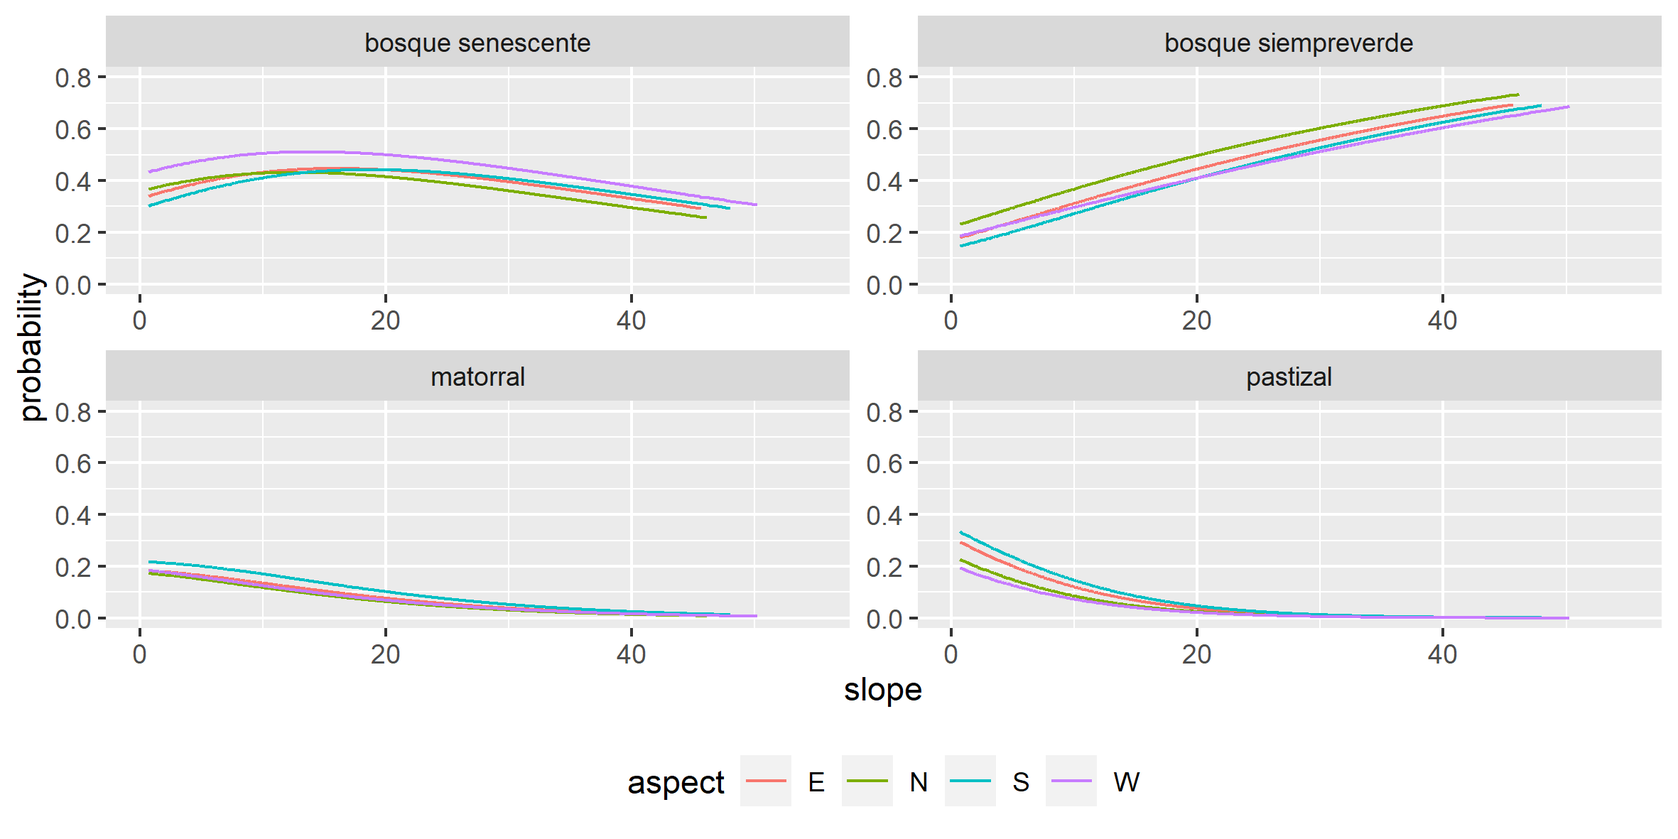
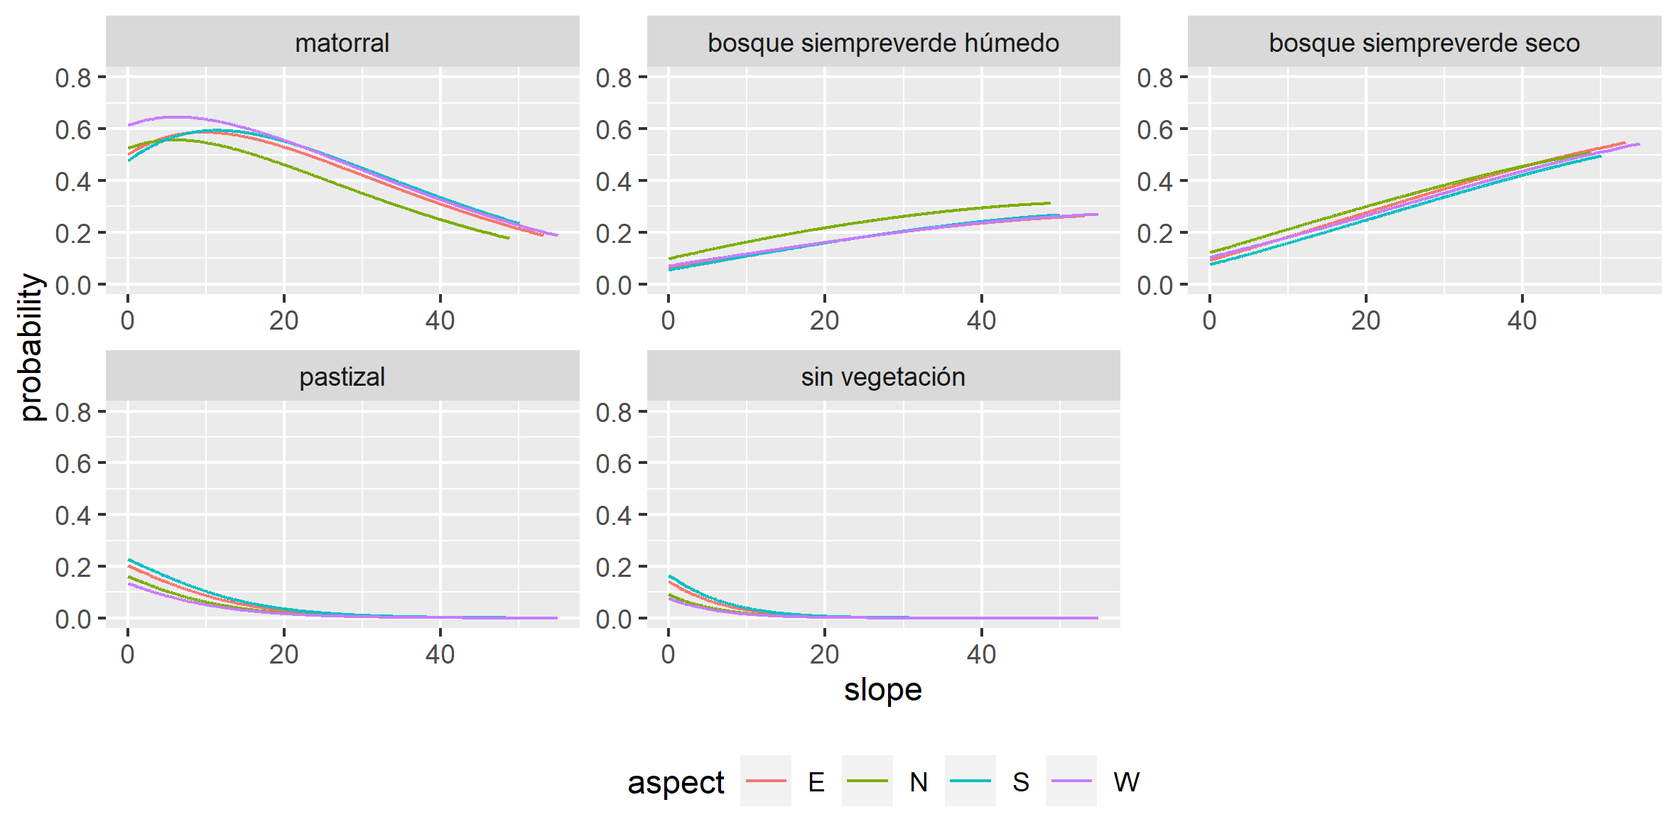
Add files via upload

diff --git a/docs/index.html b/docs/index.html
@@ -196,8 +196,8 @@
         <br>
         <br>
         <img src="view compare1.png" width="100%" alt="Corrección de iluminación por factor C"><br>
-        Figura 1. Imagen sin corrección de iluminación (a). Imagen con iluminación corregida por
-        método de factor C (b).
+        Figura 1. (A) Imagen sin corrección de iluminación; (B) Imagen con iluminación corregida por
+        método de factor C.
         <br>
         <br>
             Datos de elevación:<br>
@@ -213,36 +213,10 @@
     </section>
         <br>
         <br>
-        <header>
-    <h3>
-        4. Procesamiento de imágenes: análisis de componentes principales (ACP)
-    </h3>
-    </header>
-    <section>
-           El siguiente paso consistió en llevar cabo un análisis de componentes principales
-        (ACP) sobre los datos de las bandas corregidas de la escena MSI. Con este proceso se
-        <span id="dots4">...</span><span id="more4">
-        busca reducir la cantidad de información en un menor número de bandas llamadas
-        componentes principales que capturen la mayor cantidad de información en términos
-        de la varianza.
-        <br>
-        <br>
-        Salida:<br>
-        D:\Documents\GIS\IMG_SAT\S2A_MSIL1C_20230313T172111_N0509_R012_T13QGE_20230313T222343\C3_20230313\pca\pca
-        <br>
-        <br>
-        </span>
-                <button onclick="myFunction4()" id="myBtn4">Leer más</button>
-        <br>
-        <br>
-    </section>
-        <br>
-        <br>
-    </section>
 
         <header>
     <h3>
-        5. Procesamiento de imágenes: creación de un índice de vigor vegetal (IVV)
+        4. Procesamiento de imágenes: creación de un índice de vigor vegetal (IVV)
     </h3>
     </header>
     <section>
@@ -266,14 +240,12 @@
         <br>
         <br>
     </section>
-
         <br>
         <br>
-    </section>
 
         <header>
     <h3>
-        6. Clasificación de imágenes: k-means
+        5. Clasificación de imágenes: k-means
     </h3>
     </header>
     <section>
@@ -297,58 +269,7 @@
 
         <br>
         <br>
-        <h4>
-            Clasificación sobre la imagen ACP
-        </h4>
-        Una vez terminadas las iteraciones sobre la imagen ACP se obtuvo una imagen con 7 clases
-        mas otra clase correspondiente a todos aquellos pixeles NO clasificados para un total de 8 clases.
-        Sobre la imagen generada se procede a
-        crear las ROI para cada una de las clases. Una vez hecho esto, se nombran las ROI como
-        "pca roi n" donde n el número de identificación de clase. Se cargaron las ROI sobre
-        la imagen MSI multibanda y se analizó la separabilidad de las ROI. Se hizo la unión
-        de los pares de ROI 1 y 2, 4 y 5, así como 6 y 7 cuya separabilidad fue menor o igual a 0.5
-        (Tabla 4).
-        <br>
-        <br>
-        <i style="color:#555656;">Tabla 4. Separabilidad de las ROI en la clasificación
-        dada por la <b>imagen ACP</b></i>
-        <table border=0
-           style="background-color:lightgrey;width:100%;"
-           class="table1">
 
-                    <thead style="background-color:#66C802;color:white">
-
-                        <tr style="background:green3;"><th class="word"> ROI ID</th> <th class="meaning">ROI ID</th><th class="meaning">Separación</th></tr></thead>
-                        <tr style="text-align:left;color:black;"><td align="center">1</td><td align="center">2</td><td align="center">0.37</td></tr>
-                        <tr style="text-align:left;color:black;"><td align="center">6</td><td align="center">7</td><td align="center">0.37</td></tr>
-                        <tr style="text-align:left;color:black;"><td align="center">4</td><td align="center">5</td><td align="center">0.50</td></tr>
-
-        </table>
-        <br>
-        <br>
-        En la Tabla 5 se muestran los valores medios de reflectancia observados en cada clase y para
-        cada una de las bandas multiespectrales del sensor satelital MSI.
-        <br>
-        <br>
-        <i style="color:#555656;">Tabla 5. Valor medio de clase y desviación estándar para cada una de las bandas del sensor MSI
-        de acuerdo a las clases de la <b>imagen ACP</b>. Debe destacarse el aumento en la
-        diferencia entre los valores medios de las bandas 8 y 4, así como la disminución constante en
-        los valores medios de la banda 11 a través de las clases obtenidas.</i><br>
-        <table border=0
-           style="background-color:lightgrey;width:100%;"
-           class="table1">
-
-                    <thead style="background-color:#66C802;color:white">
-
-                        <tr style="background:green3;"><th class="word"> Clase</th> <th class="meaning" colspan="2">Banda 3<br>media-desv</th><th class="meaning" colspan="2">Banda 4<br>media-desv</th><th class="meaning" colspan="2">Banda 8<br>media-desv</th><th class="meaning" colspan="2">Banda 11<br>media-desv</th></tr></thead>
-                        <tr style="text-align:left;color:black;"><td align="center">Clase 1</td><td align="center">0.2352</td><td align="center">0.0175</td><td align="center">0.2686</td><td align="center">0.0232</td><td align="center">0.3416</td><td align="center">0.0231</td><td align="center">0.4479</td><td align="center">0.0322</td></tr>
-                        <tr style="text-align:left;color:black;"><td align="center">Clase 2</td><td align="center">0.2096</td><td align="center">0.0097</td><td align="center">0.2321</td><td align="center">0.0111</td><td align="center">0.3064</td><td align="center">0.0124</td><td align="center">0.3958</td><td align="center">0.0166</td></tr>
-                        <tr style="text-align:left;color:black;"><td align="center">Clase 3</td><td align="center">0.1916</td><td align="center">0.0083</td><td align="center">0.2065</td><td align="center">0.0103</td><td align="center">0.2810</td><td align="center">0.0144</td><td align="center">0.3484</td><td align="center">0.0186</td></tr>
-                        <tr style="text-align:left;color:black;"><td align="center">Clase 4</td><td align="center">0.1788</td><td align="center">0.0057</td><td align="center">0.1824</td><td align="center">0.0101</td><td align="center">0.2668</td><td align="center">0.0174</td><td align="center">0.2908</td><td align="center">0.0198</td></tr>
-
-
-        </table>
-        <br>
         <br>
         <br>
         <h4>
@@ -408,7 +329,7 @@
         clasificación.
         <br>
         <br>
-        <img src="pca vs ivv.png" width="100%" alt="clasificación k means sobre pca y vvi"><br>
+        <img src="ivv clases.png" width="100%" alt="clasificación k means sobre pca y vvi"><br>
         <i style="color:#555656;">Fig 2. Comparativo de los resultados de los dos procesos de clasificación kmeans.
         Del lado izquierdo se muestra la <b>imagen ACP</b> con las clases obtenidas a partir de los
             <b>componentes principales</b>; del lado derecho se muestra la <b>imagen IVV</b> con el
@@ -432,10 +353,11 @@
                     <thead style="background-color:#66C802;color:white">
 
                         <tr style="background:green3;"><th class="word"> Clase</th> <th class="meaning">Nivel</th><th class="meaning">Descripción</th></tr></thead>
-                        <tr style="text-align:left;color:black;"><td align="center">1</td><td align="center">2</td><td align="center">Pastizal y suelo desnudo</td></tr>
-                        <tr style="text-align:left;color:black;"><td align="center">2</td><td align="center">3</td><td align="center">Matorral disperso</td></tr>
-                        <tr style="text-align:left;color:black;"><td align="center">3</td><td align="center">5</td><td align="center">Bosque denso senescente</td></tr>
-                        <tr style="text-align:left;color:black;"><td align="center">4</td><td align="center">7</td><td align="center">Bosque denso siempre verde</td></tr>
+                        <tr style="text-align:left;color:black;"><td align="center">1</td><td align="center">2</td><td align="center">Sin vegetación</td></tr>
+                        <tr style="text-align:left;color:black;"><td align="center">2</td><td align="center">3</td><td align="center">Pastizal</td></tr>
+                        <tr style="text-align:left;color:black;"><td align="center">3</td><td align="center">5</td><td align="center">Matorral senescente</td></tr>
+                        <tr style="text-align:left;color:black;"><td align="center">4</td><td align="center">7</td><td align="center">Bosque perenifolio seco</td></tr>
+                        <tr style="text-align:left;color:black;"><td align="center">4</td><td align="center">7</td><td align="center">Bosque perenifolio húmedo</td></tr>
 
         </table>
         <br>
@@ -468,94 +390,32 @@
         <br>
         <header>
     <h3>
-        7. Análisis de regresión
+        6. Análisis de regresión
     </h3>
     </header>
     <section>
-        Para realizar el análisis multinomial o categórico se utilizó la información raster
-        de topografía de la zona de estudio (aspecto y pendiente) así como la información categórica
-        de los clases de vegetación obtenidas mediante los dos procesos de clasificación de conglomerados.
-        El análisis de regresión logística multinomial
+        Se aplicaron dos procesos de análisis de regresión: a) regresión logística multinomial y b)
+        regresión lineal múltiple. Se utilizó la
+        información raster topográfica de la zona de estudio (aspecto y pendiente) así como la
+        información categórica de los clases de vegetación obtenidas mediante el proceso de
         <span id="dots7">...</span><span id="more7">
-        trabaja sobre una variable respuesta o dependiente de naturaleza categórica y, para este caso,
-        con dos variabes predictivas: una continua y otra categórica. El análisis busca detectar si
-        es que existe alguna influencia significativa de la topografía (aspecto y pendiente) sobre la
-        distribución de las clases de vegetación.
+        clasificación de conglomerados k-means. Para la regresión logística se analizaron un total de
+        503,014 observaciones, mientras que para la regresión lineal se analizaron un total de 505,085
+        observaciones.
         <br>
         <br>
-        Para poder llevar a cabo este análisis fue necesario hacer una preparación de los datos topográficos
-        de la zona de estudio. La información continua de la orientación o aspecto del terreno se
-        particionó en cuatro categorías: N, S, E y O.
-        <br>
-        <br>
-        <h4>Regresión logística multinomial sobre la clasificación ACP</h4>
-        <br>
-        <br>
-        <i style="color:#555656;">Tabla 9. Resultados del modelo de regresión logística.
-            <br>
-            <br>
-        Coeficientes.</i><br>
-        <table border=0
-           style="background-color:lightgrey;width:100%;"
-           class="table1">
 
-                    <thead style="background-color:#66C802;color:white">
-
-                        <tr style="background:green3;"><th class="word"> Clase</th> <th class="meaning">Intercept</th><th class="meaning">N</th><th class="meaning">S</th><th class="meaning">W</th><th class="meaning">Slope</th></tr></thead>
-                        <tr style="text-align:left;color:black;"><td align="center">Bosque siempreverde</td><td align="center">-0.6581</td><td align="center">0.1716</td><td align="center">-0.0845</td><td align="center">-0.2069</td><td align="center">0.0333</td></tr>
-                        <tr style="text-align:left;color:black;"><td align="center">Matorral</td><td align="center">-0.5742</td><td align="center">-0.1302</td><td align="center">0.2819</td><td align="center">-0.2352</td><td align="center">-0.0585</td></tr>
-                        <tr style="text-align:left;color:black;"><td align="center">Pastizal</td><td align="center">-0.0629</td><td align="center">-0.3386</td><td align="center">0.2436</td><td align="center">-0.6616</td><td align="center">-0.1211</td></tr>
-
-
-        </table>
-        <i style="color:#555656;">Error estándar</i><br>
-        <table border=0
-           style="background-color:lightgrey;width:100%;"
-           class="table1">
-            <caption style="color:#555656;">Desviación residual: 1,180,771<br>
-            AIC: 1,180,801</caption>
-
-                    <thead style="background-color:#66C802;color:white">
-
-                        <tr style="background:green3;"><th class="word"> Clase</th> <th class="meaning">Intercept</th><th class="meaning">N</th><th class="meaning">S</th><th class="meaning">W</th><th class="meaning">Slope</th></tr></thead>
-                        <tr style="text-align:left;color:black;"><td align="center">Bosque siempreverde</td><td align="center">0.0072</td><td align="center">0.0095</td><td align="center">0.0086</td><td align="center">0.0093</td><td align="center">0.0003</td></tr>
-                        <tr style="text-align:left;color:black;"><td align="center">Matorral</td><td align="center">0.0096</td><td align="center">0.0143</td><td align="center">0.0111</td><td align="center">0.0135</td><td align="center">0.0006</td></tr>
-                        <tr style="text-align:left;color:black;"><td align="center">Pastizal</td><td align="center">0.0100</td><td align="center">0.0155</td><td align="center">0.0113</td><td align="center">0.0158</td><td align="center">0.0008</td></tr>
-
-
-        </table>
         <br>
-        <i style="color:#555656;">Valores exponenciales de los odds: probabilidad de ocurrencia</i>
-        <table border=0
-           style="background-color:lightgrey;width:100%;"
-           class="table1">
-
-                    <thead style="background-color:#66C802;color:white">
-
-                        <tr style="background:green3;"><th class="word"> Clase</th> <th class="meaning">Intercept</th><th class="meaning">N</th><th class="meaning">S</th><th class="meaning">W</th><th class="meaning">Slope</th></tr></thead>
-                        <tr style="text-align:left;color:black;"><td align="center">Bosque siempreverde</td><td align="center">0.5177</td><td align="center">1.1872</td><td align="center">0.9189</td><td align="center">0.8130</td><td align="center">1.0339</td></tr>
-                        <tr style="text-align:left;color:black;"><td align="center">Matorral</td><td align="center">0.5631</td><td align="center">0.8778</td><td align="center">1.3256</td><td align="center">0.7903</td><td align="center">0.9430</td></tr>
-                        <tr style="text-align:left;color:black;"><td align="center">Pastizal</td><td align="center">0.9389</td><td align="center">0.7127</td><td align="center">1.2759</td><td align="center">0.5160</td><td align="center">0.8859</td></tr>
-
-
-        </table>
+        <h4>Regresión logística multinomial</h4>
         <br>
         <br>
-        En la Figura 3 se puede observar que la probabilidad de ocurrencia del <b>bosque siempreverde</b> se ve
-        influenciada por el aumento en los valores de la pendiente y es ligeramente superior en orientación
-        Norte. El <b>bosque senescente</b> presenta probabilidades de ocurrencia
-        constantes en un rango amplio de valores de pendiente y en mayor magnitud para aquellas
-        superficies de terreno con orientación Oeste. En el caso del <b>pastizal</b> se observa que las
-        probabilidades de ocurrencia aumentan en pendientes con valores mínimos.
-        <br>
-        <br>
-        <img src="plot_prob_acp.png" width="100%" alt="gráfica de probabilidades"><br>
-        <i style="color:#555656;">Fig 3. Probabilidades de ocurrencia de las diferentes clases de vegetación
-            para diferentes valores de la pendiente y en las diferentes orientaciones del terreno.</i>.
-        <br>
-        <br>
-        <br>
-        <h4>Regresión logística multinomial sobre la clasificación IVV</h4>
+        El análisis de regresión logística multinomial trabaja sobre
+
+        una variable respuesta o dependiente de naturaleza categórica y, para este caso,
+        con dos variabes predictivas: una continua (pendiente) y otra categórica (aspecto).
+        La variable <b>aspecto</b> se particionó en 4 categorías: Norte, Sur, Este y Oeste. El análisis
+        busca detectar si es que existe alguna influencia significativa de las variables topográficas
+        sobre la distribución de las clases de vegetación.
         <br>
         <br>
         <i style="color:#555656;">Tabla 10. Resultados del modelo de regresión logística.
@@ -569,9 +429,10 @@
                     <thead style="background-color:#66C802;color:white">
 
                         <tr style="background:green3;"><th class="word"> Clase</th> <th class="meaning">Intercept</th><th class="meaning">N</th><th class="meaning">S</th><th class="meaning">W</th><th class="meaning">Slope</th></tr></thead>
-                        <tr style="text-align:left;color:black;"><td align="center">Bosque siempreverde</td><td align="center">-0.9298</td><td align="center">0.2641</td><td align="center">-0.1475</td><td align="center">-0.3357</td><td align="center">0.0449</td></tr>
-                        <tr style="text-align:left;color:black;"><td align="center">Matorral</td><td align="center">-0.6269</td><td align="center">-0.0893</td><td align="center">0.1797</td><td align="center">-0.0340</td><td align="center">-0.0531</td></tr>
+                        <tr style="text-align:left;color:black;"><td align="center">Bosque ph</td><td align="center">-0.9298</td><td align="center">0.2641</td><td align="center">-0.1475</td><td align="center">-0.3357</td><td align="center">0.0449</td></tr>
+                        <tr style="text-align:left;color:black;"><td align="center">Bosque ps</td><td align="center">-0.6269</td><td align="center">-0.0893</td><td align="center">0.1797</td><td align="center">-0.0340</td><td align="center">-0.0531</td></tr>
                         <tr style="text-align:left;color:black;"><td align="center">Pastizal</td><td align="center">-0.2078</td><td align="center">-0.2622</td><td align="center">0.2612</td><td align="center">-0.4017</td><td align="center">-0.1057</td></tr>
+                        <tr style="text-align:left;color:black;"><td align="center">SN</td><td align="center">-0.2078</td><td align="center">-0.2622</td><td align="center">0.2612</td><td align="center">-0.4017</td><td align="center">-0.1057</td></tr>
 
 
         </table>
@@ -585,10 +446,10 @@
                     <thead style="background-color:#66C802;color:white">
 
                         <tr style="background:green3;"><th class="word"> Clase</th> <th class="meaning">Intercept</th><th class="meaning">N</th><th class="meaning">S</th><th class="meaning">W</th><th class="meaning">Slope</th></tr></thead>
-                        <tr style="text-align:left;color:black;"><td align="center">Bosque siempreverde</td><td align="center">0.0077</td><td align="center">0.0094</td><td align="center">0.0090</td><td align="center">0.0098</td><td align="center">0.0003</td></tr>
-                        <tr style="text-align:left;color:black;"><td align="center">Matorral</td><td align="center">0.0097</td><td align="center">0.0134</td><td align="center">0.0112</td><td align="center">0.0127</td><td align="center">0.0006</td></tr>
+                        <tr style="text-align:left;color:black;"><td align="center">Bosque ph</td><td align="center">0.0077</td><td align="center">0.0094</td><td align="center">0.0090</td><td align="center">0.0098</td><td align="center">0.0003</td></tr>
+                        <tr style="text-align:left;color:black;"><td align="center">Bosque ps</td><td align="center">0.0097</td><td align="center">0.0134</td><td align="center">0.0112</td><td align="center">0.0127</td><td align="center">0.0006</td></tr>
                         <tr style="text-align:left;color:black;"><td align="center">Pastizal</td><td align="center">0.0100</td><td align="center">0.0142</td><td align="center">0.0112</td><td align="center">0.0143</td><td align="center">0.0007</td></tr>
-
+                        <tr style="text-align:left;color:black;"><td align="center">SN</td><td align="center">0.0100</td><td align="center">0.0142</td><td align="center">0.0112</td><td align="center">0.0143</td><td align="center">0.0007</td></tr>
 
         </table>
         <br>
@@ -600,10 +461,10 @@
                     <thead style="background-color:#66C802;color:white">
 
                         <tr style="background:green3;"><th class="word"> Clase</th> <th class="meaning">Intercept</th><th class="meaning">N</th><th class="meaning">S</th><th class="meaning">W</th><th class="meaning">Slope</th></tr></thead>
-                        <tr style="text-align:left;color:black;"><td align="center">Bosque siempreverde</td><td align="center">0.3946</td><td align="center">1.3023</td><td align="center">0.8627</td><td align="center">0.7148</td><td align="center">1.0460</td></tr>
-                        <tr style="text-align:left;color:black;"><td align="center">Matorral</td><td align="center">0.5342</td><td align="center">0.9144</td><td align="center">1.1969</td><td align="center">0.9664</td><td align="center">0.9482</td></tr>
+                        <tr style="text-align:left;color:black;"><td align="center">Bosque ph</td><td align="center">0.3946</td><td align="center">1.3023</td><td align="center">0.8627</td><td align="center">0.7148</td><td align="center">1.0460</td></tr>
+                        <tr style="text-align:left;color:black;"><td align="center">Bosque ps</td><td align="center">0.5342</td><td align="center">0.9144</td><td align="center">1.1969</td><td align="center">0.9664</td><td align="center">0.9482</td></tr>
                         <tr style="text-align:left;color:black;"><td align="center">Pastizal</td><td align="center">0.8123</td><td align="center">0.7693</td><td align="center">1.2985</td><td align="center">0.6691</td><td align="center">0.8996</td></tr>
-
+                        <tr style="text-align:left;color:black;"><td align="center">SN</td><td align="center">0.8123</td><td align="center">0.7693</td><td align="center">1.2985</td><td align="center">0.6691</td><td align="center">0.8996</td></tr>
 
         </table>
         <br>
@@ -622,13 +483,13 @@
         <br>
         <br>
         <br>
-        <h4>Regresión lineal múltiple sobre la clasificación IVV</h4>
+        <h4>Regresión lineal múltiple</h4>
         <br>
         <br>
-        Se desarrolló un modelo de regresión múltiple donde la variable respuesta es
-        la información del índice de vigor veheyal (ivv) con dos variables predictivas
-        continuas: pendiente (slope) y aspecto del terreno.
-        En la Figura 5 se muestra la supergicie de respuesta para el modelo para el modelo
+        Se desarrolló un modelo de regresión múltiple donde la variable respuesta es continua
+        a partir de la información del índice de vigor vegetal (ivv). Del mismo modo se usaron dos
+        variables predictivas continuas: pendiente (slope) y aspecto del terreno.
+        En la Figura 5 se muestra la superficie de respuesta para el modelo
         de regresión lineal múltiple:
             <br>
             <br>
@@ -636,9 +497,9 @@
         <br>
         <br>
         Donde:<br>
-        ivv es la variable respuesta como el índice de vigor vegetal.<br>
-        slope es el porcentaje de pendiente del terreno.<br>
-        aspect es la orientación del terreno.
+        ivv: es la variable respuesta como el índice de vigor vegetal.<br>
+        slope: es el porcentaje de pendiente del terreno.<br>
+        aspect: es la orientación del terreno.
         <br>
         <br>
         <iframe src="https://renebec.github.io/linearMult3D/"
@@ -657,6 +518,24 @@
 <br>
         </span>
                 <button onclick="myFunction7()" id="myBtn7">Leer más</button>
+        <br>
+        <br>
+    </section>
+        <br>
+        <br>
+        <header>
+    <h3>
+        7. Análisis y discusión de resultados
+    </h3>
+    </header>
+    <section>
+           En contrucción
+        <span id="dots8">...</span><span id="more8">
+        <br><b style="color:red;">Estamos trabajando</b>
+        <br>
+        <br>
+        </span>
+                <button onclick="myFunction8()" id="myBtn8">Leer más</button>
         <br>
         <br>
     </section>

diff --git a/docs/actions.js b/docs/actions.js
@@ -109,3 +109,20 @@ function myFunction7() {
     moreText7.style.display = "inline";
   }
 }
+
+
+function myFunction8() {
+  var dots8 = document.getElementById("dots8");
+  var moreText8 = document.getElementById("more8");
+  var btnText8 = document.getElementById("myBtn8");
+
+  if (dots8.style.display === "none") {
+    dots8.style.display = "inline";
+    btnText8.innerHTML = "Leer más";
+    moreText8.style.display = "none";
+  } else {
+    dots8.style.display = "none";
+    btnText8.innerHTML = "Mostrar menos";
+    moreText8.style.display = "inline";
+  }
+}

diff --git a/docs/estilos.css b/docs/estilos.css
@@ -105,7 +105,7 @@ background:lightgoldenrodyellow
 #more5 {display: none;background:#BBBDBD}
 #more6 {display: none;background:#BBBDBD}
 #more7 {display: none;background:#BBBDBD}
-#more8 {display: none;background:lightgoldenrodyellow}
+#more8 {display: none;background:#BBBDBD}
 
 button{
 background:grey;
